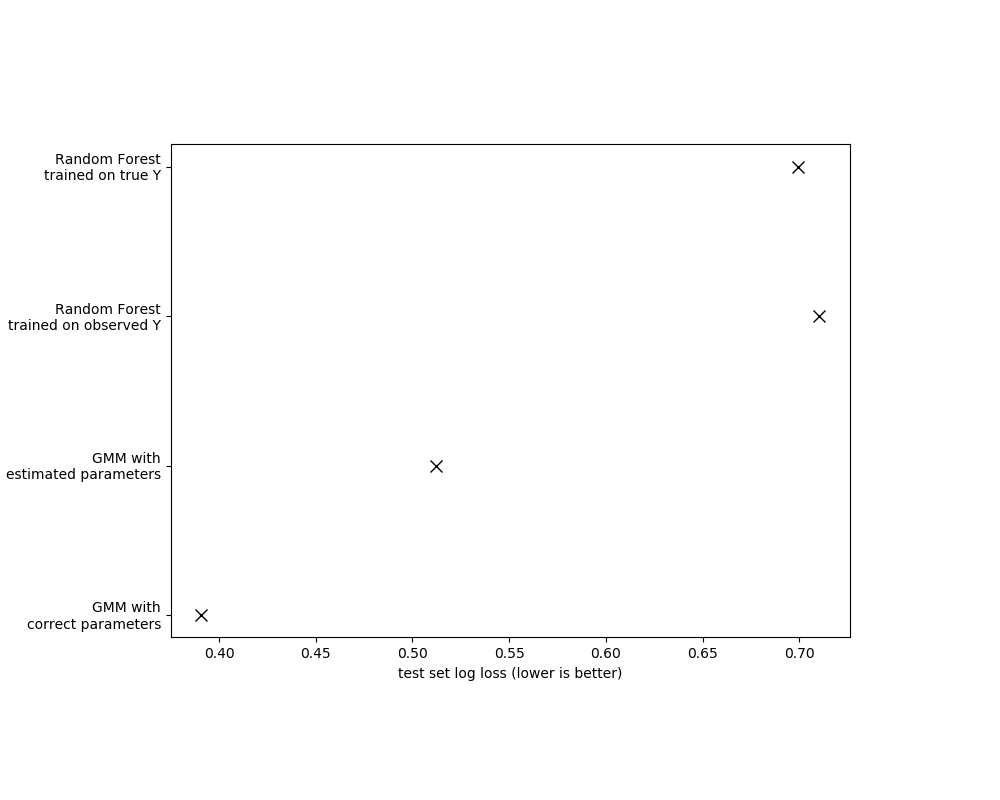
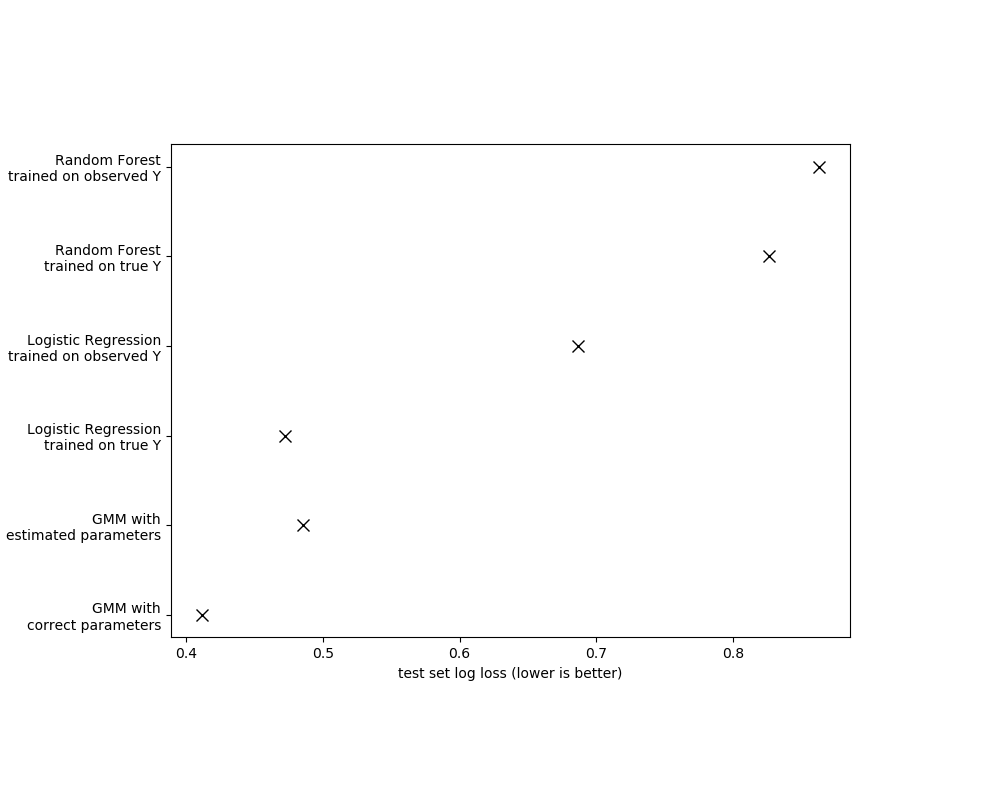
Add multinomial logit

diff --git a/simulation.py b/simulation.py
@@ -3,6 +3,7 @@ import matplotlib.pyplot as plt
 import pandas as pd
 from scipy.stats import multivariate_normal
 from sklearn.ensemble import RandomForestClassifier
+from sklearn.linear_model import LogisticRegression
 from sklearn.metrics import log_loss
 
 
@@ -76,9 +77,18 @@ def run_expectation_maximization(df, n_classes, max_iter=20):
     # Try multiple random starting values, return best likelihood
     # Note that [0, 0] and n=2 both hardcode the dimension of the predictors ["x1", "x2"]
     params_hat = {
-        "pr_y": [1 / n_classes,] * n_classes,
-        "mu_x": [[0, 0],] * n_classes,
-        "vcov_x": [np.identity(n=2),] * n_classes,
+        "pr_y": [
+            1 / n_classes,
+        ]
+        * n_classes,
+        "mu_x": [
+            [0, 0],
+        ]
+        * n_classes,
+        "vcov_x": [
+            np.identity(n=2),
+        ]
+        * n_classes,
         "n_classes": n_classes,
     }
 
@@ -113,7 +123,11 @@ def simulate_x(df, mu_x, vcov_x, n_classes):
 
 
 def simulate(
-    n_obs, pr_y, mu_x, vcov_x, pr_y_is_observed,
+    n_obs,
+    pr_y,
+    mu_x,
+    vcov_x,
+    pr_y_is_observed,
 ):
 
     n_classes = len(pr_y)
@@ -225,10 +239,22 @@ def main():
     # Entry i is the variance-covariance matrix of X conditional on Y==i
     # Make sure these are positive (semi-) definite
     vcov_x = [
-        [[2.0, -0.3], [-0.3, 1.0],],
-        [[2, 0], [0, 3],],
-        [[2, 1], [1, 4],],
-        [[3.0, 1.5], [1.5, 2.0],],
+        [
+            [2.0, -0.3],
+            [-0.3, 1.0],
+        ],
+        [
+            [2, 0],
+            [0, 3],
+        ],
+        [
+            [2, 1],
+            [1, 4],
+        ],
+        [
+            [3.0, 1.5],
+            [1.5, 2.0],
+        ],
     ]
 
     pr_y = [0.2, 0.3, 0.4, 0.1]
@@ -241,7 +267,11 @@ def main():
     }
 
     df_train = simulate(
-        n_obs=500, pr_y=pr_y, mu_x=mu_x, vcov_x=vcov_x, pr_y_is_observed=0.05,
+        n_obs=500,
+        pr_y=pr_y,
+        mu_x=mu_x,
+        vcov_x=vcov_x,
+        pr_y_is_observed=0.05,
     )
 
     # EM is not allowed to use true_y
@@ -252,12 +282,23 @@ def main():
 
     save_plots(df_train, params_hat, mu_x)
 
-    # TODO Also try fitting a multiclass logit
+    # Fit a multiclass/multinomial logit that gets to observe _all_ Ys (i.e. true_y instead of observed_y)
+    lr_true_y = LogisticRegression(multi_class="multinomial", C=0.5, penalty="l2")
+    lr_true_y.fit(df_train[["x1", "x2"]], df_train["true_y"])
+
+    # Fit a multinomial logic that gets to observe only observed_y (doesn't make any use of the unlabeled Xs)
+    lr_observed_y = LogisticRegression(multi_class="multinomial", C=0.5, penalty="l2")
+    y_is_observed = df_train["observed_y"].notnull()
+    lr_observed_y.fit(
+        df_train.loc[y_is_observed, ["x1", "x2"]],
+        df_train.loc[y_is_observed, "observed_y"],
+    )
+
     # Fit a random forest that gets to observe _all_ Ys (i.e. true_y instead of observed_y)
     rf_true_y = RandomForestClassifier(n_estimators=200, max_features="sqrt")
     rf_true_y.fit(df_train[["x1", "x2"]], df_train["true_y"])
 
-    # Fit a random forest that gets to observe only observed_y (but doesn't make any use of the unlabeled Xs)
+    # Fit a random forest that gets to observe only observed_y (doesn't make any use of the unlabeled Xs)
     rf_observed_y = RandomForestClassifier(n_estimators=200, max_features="sqrt")
     y_is_observed = df_train["observed_y"].notnull()
     rf_observed_y.fit(
@@ -270,7 +311,11 @@ def main():
     # (b) a random forest that gets to "cheat" and train on df_train[["x1", "x2", "true_y"]]
     # (c) a random forest trained on the subset of df_train[["x1", "x2", "observed_y"]] where observed_y is truly observed (i.e. not null)
     df_test = simulate(
-        n_obs=1000, pr_y=pr_y, mu_x=mu_x, vcov_x=vcov_x, pr_y_is_observed=0.0,
+        n_obs=1000,
+        pr_y=pr_y,
+        mu_x=mu_x,
+        vcov_x=vcov_x,
+        pr_y_is_observed=0.0,
     )
 
     # This function uses the estimated GMM to predict Y | X
@@ -279,11 +324,20 @@ def main():
 
     predictions_optimal = calculate_pr_y_given_x(df_test, correct_params)
 
+    predictions_lr_true_y = lr_true_y.predict_proba(df_test[["x1", "x2"]])
+    predictions_lr_observed_y = lr_observed_y.predict_proba(df_test[["x1", "x2"]])
+
     predictions_rf_true_y = rf_true_y.predict_proba(df_test[["x1", "x2"]])
     predictions_rf_observed_y = rf_observed_y.predict_proba(df_test[["x1", "x2"]])
 
     test_loss_gmm = log_loss(df_test["true_y"], y_pred=predictions_gmm)
     test_loss_optimal = log_loss(df_test["true_y"], y_pred=predictions_optimal)
+
+    test_loss_lr_true_y = log_loss(df_test["true_y"], y_pred=predictions_lr_true_y)
+    test_loss_lr_observed_y = log_loss(
+        df_test["true_y"], y_pred=predictions_lr_observed_y
+    )
+
     test_loss_rf_true_y = log_loss(df_test["true_y"], y_pred=predictions_rf_true_y)
     test_loss_rf_observed_y = log_loss(
         df_test["true_y"], y_pred=predictions_rf_observed_y
@@ -302,12 +356,16 @@ def main():
         [
             test_loss_optimal,
             test_loss_gmm,
+            test_loss_lr_true_y,
+            test_loss_lr_observed_y,
             test_loss_rf_true_y,
             test_loss_rf_observed_y,
         ],
         [
             "GMM with\ncorrect parameters",
             "GMM with\nestimated parameters",
+            "Logistic Regression\ntrained on true Y",
+            "Logistic Regression\ntrained on observed Y",
             "Random Forest\ntrained on true Y",
             "Random Forest\ntrained on observed Y",
         ],
